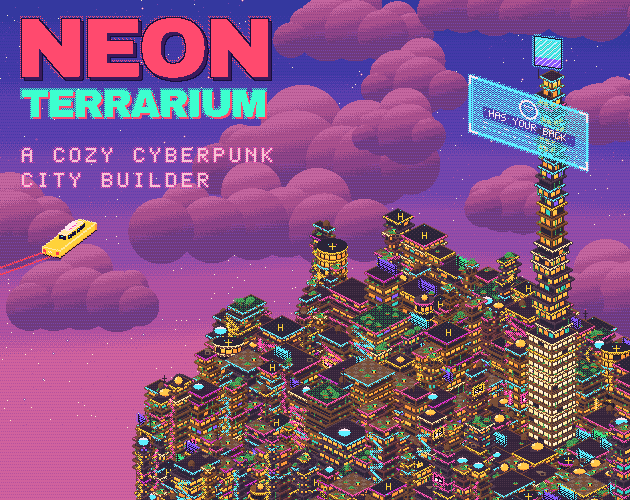
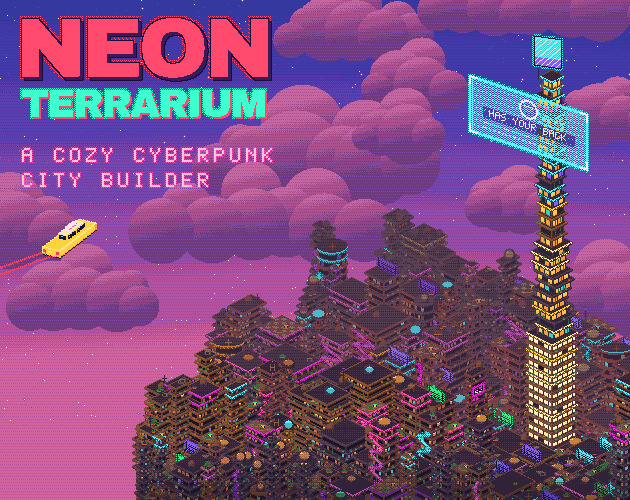
Cover art: dark, moody city lighting
Dim and scatter the window light (about 40% lit, mostly dim amber, rare gold
and cool panes), add distance haze toward dusk violet and a grounding gradient
over the bottom 60 px, trim only the top slabs of about a third of the
buildings in one accent each, calm helipads, gardens, signs and screens.
The hero tower keeps its bright warm floors. PNG and GIFs rebuilt.

Claude-Session: https://claude.ai/code/session_01F4MPX99podf2NwUC3T9owt

Changed region(s): [[0.2111, 0.42, 1.0, 1.0]]

diff --git a/cover-art/cover.px.js b/cover-art/cover.px.js
@@ -19,11 +19,13 @@ const PAL = {
   // neon trim: hot pink, magenta, yellow
   H: "#ff4fb0", M: "#e02fd0", Y: "#ffd23a",
   // plants, terracotta pots; helipad dark, stone tile, grout
-  g: "#4fae5a", e: "#2e7a4a", T: "#c4602e", D: "#2a2438", S: "#8a6a5a", s: "#6a4a44",
+  g: "#3f7046", e: "#2f5a3c", T: "#c4602e", D: "#2a2438", S: "#8a6a5a", s: "#6a4a44",
   // title: coral, purple, mint, ink, pale pink
   C: "#ff4a6e", X: "#3b1a5c", G: "#3dffcf", I: "#170f3a", J: "#f7c6d6",
   // star cream, pale pink-white, red lights
   F: "#fff0d0", W: "#ffe6ee", x: "#ff3b4a",
+  // dim window light: amber, brown-orange, teal, soft purple; dusk violet haze; helipad ochre
+  m: "#c9803a", j: "#a8603a", t: "#4fb8c8", z: "#8a6ad0", Q: "#61298a", Z: "#8a6a3a",
 }
 pal(PAL)
 const KEYS = Object.keys(PAL).join("")
@@ -31,12 +33,16 @@ const IDX = {}
 for (let i = 0; i < KEYS.length; i++) IDX[KEYS[i]] = i
 
 let fb = new Uint8Array(W * H)
+let recordCity = false, curLevel = 0
+const DEPTH = new Uint8Array(W * H), CITY = new Uint8Array(W * H)
 const inb = (x, y) => x >= 0 && x < W && y >= 0 && y < H
 const put = (x, y, k) => {
   if (!inb(x, y)) return
   const i = IDX[k]
   if (i === undefined) throw new Error("no palette key " + k)
-  fb[y * W + x] = i
+  const p = y * W + x
+  fb[p] = i
+  if (recordCity) { CITY[p] = 1; DEPTH[p] = curLevel }
 }
 const get = (x, y) => (inb(x, y) ? KEYS[fb[y * W + x]] : null)
 const rectK = (x, y, w, h, k) => { for (let j = 0; j < h; j++) for (let i = 0; i < w; i++) put(x + i, y + j, k) }
@@ -146,6 +152,45 @@ const cellOK = (a, b) => {
   return cx >= 138 && cx <= 690 && cy >= backLine(cx) && cy <= 575
 }
 
+// ---------------------------------------------------------------- distance haze and a grounding gradient
+// every pixel a building paints remembers how far back it stands (DEPTH, in 1/20ths of a blend toward
+// the dusk violet); after the city is drawn each colour is blended and snapped back onto the palette
+const KEYRGB = {}
+for (const k of KEYS) { const hx = PAL[k]; KEYRGB[k] = [parseInt(hx.slice(1, 3), 16), parseInt(hx.slice(3, 5), 16), parseInt(hx.slice(5, 7), 16)] }
+const SNAP = [...KEYS].filter((k) => !"CXGIJabcdFW".includes(k))
+const nearestKey = (r, g, b) => {
+  let best = "0", bd = 1e9
+  for (const k of SNAP) { const c = KEYRGB[k]; const d = (c[0] - r) ** 2 + (c[1] - g) ** 2 + (c[2] - b) ** 2; if (d < bd) { bd = d; best = k } }
+  return best
+}
+const levelFor = (yBase) => {
+  const f = yBase >= 500 ? 0 : yBase >= 470 ? 0.3 * (500 - yBase) / 30 : 0.3 + 0.2 * clamp((470 - yBase) / 140, 0, 1)
+  return Math.round(f * 20)
+}
+const hazeCache = new Map()
+const hazeKey = (k, level) => {
+  if (!level) return k
+  const ck2 = level * 128 + IDX[k]
+  let r = hazeCache.get(ck2)
+  if (!r) { const f = level / 20, c = KEYRGB[k], v = KEYRGB.Q; r = nearestKey(c[0] * (1 - f) + v[0] * f, c[1] * (1 - f) + v[1] * f, c[2] * (1 - f) + v[2] * f); hazeCache.set(ck2, r) }
+  return r
+}
+const darkCache = new Map()
+const darkKey = (k, amt) => {
+  const ck2 = Math.round(amt * 10) * 128 + IDX[k]
+  let r = darkCache.get(ck2)
+  if (!r) { const a = Math.round(amt * 10) / 10, c = KEYRGB[k], v = KEYRGB.w; r = nearestKey(c[0] * (1 - a) + v[0] * a, c[1] * (1 - a) + v[1] * a, c[2] * (1 - a) + v[2] * a); darkCache.set(ck2, r) }
+  return r
+}
+const GROUND_Y = 440
+const grounded = (x, y, k) => {
+  if (y < GROUND_Y) return k
+  const t = (y - GROUND_Y) / (H - GROUND_Y)
+  return bay(x, y) < Math.min(1, t * 1.15) ? darkKey(k, 0.12 + 0.33 * t) : k
+}
+// what a raw key becomes at (x, y) once the haze and the gradient are on it
+const FK = (x, y, k) => { const i = y * W + x; const kk = hazeKey(k, DEPTH[i]); return CITY[i] ? grounded(x, y, kk) : kk }
+
 // ---------------------------------------------------------------- glow
 const EMIT = new Set("yohnvVNHMYWFxg")
 const glowAround = (pts, k, reach = 2, sink) => {
@@ -207,7 +252,7 @@ function isoBox(a0, b0, w, d, h, z0, fn) {
 const FAMS = [
   { top: "B", L: "K", R: "k" }, { top: "R", L: "r", R: "u" }, { top: "P", L: "p", R: "q" }, { top: "O", L: "L", R: "l" },
 ]
-const TRIMC = ["H", "n", "Y", "H", "M", "n", "H", "Y", "h"]
+const TRIMC = ["H", "H", "H", "H", "M", "M", "M", "n", "n", "n", "Y"]
 
 const PLANT = [".g.g.", "ggegg", ".TTT."]
 const BUSH = ["..ggg..", ".ggegg.", "ggeggeg", ".TTTTT."]
@@ -233,7 +278,7 @@ const pod = (x, y, rx, hgt, wk) => {
   }
   const wy = y - Math.round(hgt * 0.45), wr = Math.max(3, rx - 1), wh = Math.max(3, Math.round(hgt * 0.3))
   for (let j = -wh; j <= wh; j++) for (let i = -wr; i <= wr; i++) {
-    if ((i * i) / (wr * wr) + (j * j) / (wh * wh) <= 1.0) put(x + i, wy + j, wk === "n" ? (j < -wh / 3 ? "W" : "n") : (i < -wr / 3 && j < 0 ? "h" : j > wh / 2 ? "o" : "y"))
+    if ((i * i) / (wr * wr) + (j * j) / (wh * wh) <= 1.0) put(x + i, wy + j, wk === "n" ? (j < -wh / 3 ? "n" : "t") : (i < -wr / 3 && j < -wh / 3 ? "y" : j > wh / 2 ? "j" : "m"))
   }
   hlineK(x - rx, y, rx * 2 + 1, "q")
 }
@@ -270,15 +315,22 @@ const glyph3 = (seed) => { const rows = []; for (let j = 0; j < 3; j++) { let r 
 // ---------------------------------------------------------------- a stack of cantilevered floor plates
 function paneKey(o, side, col, f, pr, pc, lit) {
   const id = o.id
-  const q = ih(id * 131 + col, f * 7 + (side === "L" ? 1 : 2), 11)
-  if (!lit) return q < 0.08 ? "o" : "D"
-  if (q > 0.93) return "D"
-  if (o.glass === "white") return pr < pc - 1 ? (q < 0.25 ? "h" : "F") : "h"
+  if (o.bright) {
+    const q = ih(id * 131 + col, f * 7 + (side === "L" ? 1 : 2), 11)
+    if (!lit) return q < 0.08 ? "o" : "D"
+    if (q > 0.93) return "D"
+    if (o.glass === "white") return pr < pc - 1 ? (q < 0.25 ? "h" : "F") : "h"
+    const t = ih(id + col * 3, f, 5)
+    if (t < 0.05) return "v"
+    if (t < 0.08) return "V"
+    if (t < 0.16) return pr === 0 ? "h" : "y"
+    return pr < pc - 1 ? (t < 0.55 ? "o" : "y") : "o"
+  }
+  if (!lit) return "w"
   const t = ih(id + col * 3, f, 5)
-  if (t < 0.05) return "v"
-  if (t < 0.08) return "V"
-  if (t < 0.16) return pr === 0 ? "h" : "y"
-  return pr < pc - 1 ? (t < 0.55 ? "o" : "y") : "o"
+  if (t < 0.125) return t < 0.06 ? "t" : "z"          // about 1 in 8 is cool
+  if (t < 0.3) return pr === 1 ? "y" : "m"             // gold only as a small scattered spark
+  return side === "L" ? (t < 0.65 ? "m" : "j") : "j"
 }
 function stack(o) {
   const { a, b, w, d, n, fh, fam, id } = o
@@ -291,23 +343,24 @@ function stack(o) {
     const grow = o.over && f >= n * 0.45 ? o.over : 0
     const A = a + dx / 16 - grow, B = b - dx / 16 - grow, Wd = w + 2 * grow, Dd = d + 2 * grow
     const ins = 0.22, hb = fh - 2
-    const lit = ih(id, f, 3) < (o.litP ?? 0.55)
+    const fq = ih(id, f, 3), ff = fq < 0.3 ? 0.35 : fq < 0.7 ? 1.0 : 1.6      // some floors dark, some busier
     const mk = (side) => (u, r, wW, h, x, y) => {
       const base = side === "L" ? fam.L : fam.R
       if (r === 0) return side === "L" ? fam.R : "w"
       if (r === h - 1 || u < 1 || u > wW - 2) return base
       const pos = (u - 1) % (o.pw + 1)
-      if (pos === o.pw) return "D"
+      if (pos === o.pw) return o.bright ? "D" : "w"
       const col = Math.floor((u - 1) / (o.pw + 1)), pr = r - 1, pc = h - 2
+      const lit = o.bright ? fq < (o.litP ?? 0.8) : (col % 4 !== 3 && ih(id * 131 + col, f * 7 + (side === "L" ? 1 : 2), 17) < 0.4 * ff)
       const k = paneKey(o, side, col, f, pr, pc, lit)
       const wid = (id * 2 + (side === "L" ? 0 : 1)) * 65536 + col * 64 + (f & 63)
       let rec = REC.win.get(wid)
-      if (!rec) { rec = { pts: [], lit: "yohnvVNFh".includes(k) }; REC.win.set(wid, rec) }
+      if (!rec) { rec = { pts: [], lit: "yohnvVNFhmjtz".includes(k) }; REC.win.set(wid, rec) }
       rec.pts.push([x, y, k])
       return k
     }
     isoBox(A + ins, B + ins, Wd - 2 * ins, Dd - 2 * ins, hb, z, { L: mk("L"), R: mk("R") })
-    const trimOn = last ? true : ih(id, f, 9) < (o.trimP ?? 0.4)
+    const trimOn = o.trimAll ? (last ? true : ih(id, f, 9) < (o.trimP ?? 0.4)) : (o.trimB && f >= n - 2)
     const trimC = (f % 4 === 2 ? o.trims[1] : o.trims[0])
     const rec = { pts: [], glow: [] }
     const roofFn = last && o.roofFn
@@ -354,8 +407,8 @@ function cylinder(o) {
   const pk = (x, rr) => Math.floor((Math.asin(clamp((x - cx) / rr, -1, 1)) + Math.PI / 2) / (Math.PI / ncol))
   for (let f = 0; f < n; f++) {
     const last = f === n - 1
-    const lit = ih(id, f, 3) < 0.55, hb = fh - 2, rb = 0.88
-    const trimC = o.trims[f % 3 === 2 ? 1 : 0]
+    const fq = ih(id, f, 3), ff = fq < 0.3 ? 0.35 : fq < 0.7 ? 1.0 : 1.6, hb = fh - 2, rb = 0.88
+    const trimC = o.trims[0], trimOn = o.trimB && f >= n - 2
     for (let x = Math.ceil(cx - rx * rb); x <= Math.floor(cx + rx * rb); x++) {
       const t = (x + 0.5 - cx) / (rx * rb)
       if (Math.abs(t) >= 1) continue
@@ -371,8 +424,8 @@ function cylinder(o) {
         else if (r < hb - 1) {
           if (mull) k = "w"
           else {
-            const q = ih(id * 131 + col, f * 7, 11)
-            k = lit && q < 0.92 ? (t > 0.4 ? "o" : r < hb - 2 ? "y" : "o") : "D"
+            const q = ih(id * 131 + col, f * 7, 17), tt = ih(id + col * 3, f, 5)
+            k = col % 4 !== 3 && q < 0.4 * ff ? (tt < 0.125 ? "t" : tt < 0.3 && r === 2 ? "y" : tt > 0.65 || t > 0.4 ? "j" : "m") : "w"
           }
         }
         put(x, y, k)
@@ -388,8 +441,8 @@ function cylinder(o) {
       put(x, yw - 2, t < 0.3 ? fam.top : fam.L); put(x, yw - 1, t < 0.1 ? fam.L : fam.R)
       for (let y = Math.round(yTopC - dy); y <= Math.round(yTopC + dy) - 1; y++) {
         const low = y === Math.round(yTopC + dy) - 1
-        const k = low ? trimC : fam.top
-        if (low) rec.pts.push([x, y, trimC, fam.top])
+        const k = low && trimOn ? trimC : fam.top
+        if (low && trimOn) rec.pts.push([x, y, trimC, fam.top])
         put(x, y, last && o.roofK ? (low ? trimC : o.roofK) : k)
       }
     }
@@ -449,22 +502,25 @@ const drawBuilding = (bd) => {
   const fam = FAMS[Math.floor(ih(id, 1, 3) * 4)]
   const fh = ih(id, 2, 3) < 0.5 ? 8 : 7
   const n = Math.max(2, Math.round(H0 / fh))
-  const trims = [TRIMC[Math.floor(ih(id, 5, 3) * TRIMC.length)], TRIMC[Math.floor(ih(id, 6, 3) * TRIMC.length)]]
+  const accent = TRIMC[Math.floor(ih(id, 5, 3) * TRIMC.length)]
+  const trims = [accent, accent]
+  const trimB = ih(id, 52, 3) < 0.35
+  curLevel = levelFor(PYs(a0 + w, b0 + d))
   const roofType = ih(id, 7, 3)
   const big = w >= 2 && d >= 2
   const isCyl = big && ih(id, 8, 3) < 0.13
-  const pw = ih(id, 9, 3) < 0.5 ? 4 : 6
+  const pw = ih(id, 9, 3) < 0.5 ? 2 : 3
   if (isCyl) {
     const R = Math.min(w, d) * 0.5 * 0.92
     const rx = 11.3 * R * (ih(id, 10, 3) < 0.35 ? 1.5 : 1), ry = 5.66 * R
     const cx = PXs(a0 + w / 2, b0 + d / 2), cy0 = PYs(a0 + w / 2, b0 + d / 2)
-    const top = cylinder({ cx, cy0, rx, ry, n, fh, fam, id, trims, roofK: roofType < 0.5 ? "D" : null })
+    const top = cylinder({ cx, cy0, rx, ry, n, fh, fam, id, trims, trimB, roofK: roofType < 0.5 ? "D" : null })
     const [tx, ty] = top.top
-    if (roofType < 0.5) { hlineK(tx - 3, ty, 7, "Y"); vlineK(tx, ty - 3, 7, "Y"); put(tx - 4, ty - 2, "n"); put(tx + 4, ty - 2, "H") }
+    if (roofType < 0.5) { hlineK(tx - 3, ty, 7, "Z"); vlineK(tx, ty - 3, 7, "Z") }
     else pod(tx, ty + 2, Math.max(4, Math.round(rx * 0.4)), 10, "y")
   } else {
     // the roof: helipad, paved terrace, garden, pod or plain clutter
-    const kind = big && roofType < 0.26 ? "heli" : roofType < 0.4 ? "terrace" : roofType < 0.54 ? "garden" : roofType < 0.7 ? "pod" : "plain"
+    const kind = big && roofType < 0.1 ? "heli" : roofType < 0.2 ? "terrace" : roofType < 0.27 ? "garden" : roofType < 0.45 ? "pod" : "plain"
     const roofFn = (x, y, i) => {
       if (i.low || i.up) return null
       if (kind === "heli") return i.side ? "q" : (bay(x, y) < 0.1 ? "p" : "D")
@@ -476,13 +532,13 @@ const drawBuilding = (bd) => {
       a: a0, b: b0, w, d, n, fh, fam, id, trims, pw,
       twist: ih(id, 11, 3) < 0.4 ? 2 + Math.floor(ih(id, 12, 3) * 2) : 0,
       over: ih(id, 13, 3) < 0.3 ? 0.22 : 0,
-      litP: 0.3 + 0.45 * ih(id, 50, 3), trimP: 0.16 + 0.3 * ih(id, 51, 3), plantP: 0.5, roofFn, roofPlants: kind === "garden",
+      trimB, plantP: 0.5, roofFn, roofPlants: kind === "garden",
     })
     const rb = st.roofBox
     const [cx, cy] = rb.pt(a0 + w / 2, b0 + d / 2)
-    if (H0 >= 150 && ih(id, 90, 3) < 0.55) screenPanel(cx - 13, cy - 1, 26, 15, ["M", "n", "V", "N"][Math.floor(ih(id, 91, 3) * 4)])
+    if (H0 >= 150 && ih(id, 90, 3) < 0.3) screenPanel(cx - 13, cy - 1, 26, 15, ["M", "n", "V", "N"][Math.floor(ih(id, 91, 3) * 4)])
     if (kind === "heli") {
-      for (let j = 0; j < 7; j++) for (let i = 0; i < 5; i++) if (HGLYPH[j][i] !== ".") put(cx - 2 + i, cy - 3 + j, "Y")
+      for (let j = 0; j < 7; j++) for (let i = 0; i < 5; i++) if (HGLYPH[j][i] !== ".") put(cx - 2 + i, cy - 3 + j, "Z")
       for (const [px, py, k] of [[a0, b0, "n"], [a0 + w, b0, "H"], [a0 + w, b0 + d, "n"], [a0, b0 + d, "H"]]) {
         const [qx, qy] = rb.pt(px, py); const sx = Math.sign(cx - qx), sy = Math.sign(cy - qy)
         put(qx + 2 * sx, qy + 2 * sy, k); put(qx + 3 * sx, qy + 2 * sy, k)
@@ -510,7 +566,7 @@ const drawBuilding = (bd) => {
         else if (t < 0.4) antenna(px, py, 8 + Math.floor(ih(id, 100 + i, 6) * 9), id * 4 + i)
         else if (t < 0.52) spr(px, py, AC)
         else if (t < 0.6) spr(px, py, DISH)
-        else if (t < 0.78) screenPanel(px - 7, py, 14 + 2 * Math.floor(ih(id, 110 + i, 6) * 3), 8, ["n", "V", "N"][Math.floor(ih(id, 111 + i, 6) * 3)])
+        else if (t < 0.69) screenPanel(px - 7, py, 14 + 2 * Math.floor(ih(id, 110 + i, 6) * 3), 8, ["n", "V", "N"][Math.floor(ih(id, 111 + i, 6) * 3)])
         else if (t < 0.92) spr(px, py, BUSH)
         else spr(px, py, PLANT)
       }
@@ -519,12 +575,12 @@ const drawBuilding = (bd) => {
   // neon on the walls: boxy two-line shop signs, strips and icons, a zigzag stair on some towers
   const m = { a: a0, b: b0, w, d, z: 0, h: n * fh }
   const wk = [fam.L, fam.R, "w"]
-  const nsign = H0 > 30 && ih(id, 24, 3) < 0.8 ? 1 + (ih(id, 25, 3) < 0.4 ? 1 : 0) : 0
+  const nsign = H0 > 30 && ih(id, 24, 3) < 0.4 ? 1 + (ih(id, 25, 3) < 0.2 ? 1 : 0) : 0
   for (let s = 0; s < nsign; s++) {
     const side = ih(id, 26 + s, 3) < 0.65 ? "L" : "R"
     const wW = Math.round(8 * (side === "L" ? w : d))
     if (wW < 10) continue
-    const col = SIGNC[Math.floor(ih(id, 27 + s, 3) * SIGNC.length)]
+    const col = accent
     const kind = ih(id, 28 + s, 3)
     const cells = []
     const at = (u, r, k) => { const [x, y] = wallXY(side, m, u, r); cells.push([x, y, k]) }
@@ -545,7 +601,7 @@ const drawBuilding = (bd) => {
       const len = Math.min(m.h - 12, 8 + Math.floor(ih(id, 33 + s, 3) * 10))
       const u0 = 1 + 2 * Math.floor(ih(id, 34 + s, 3) * Math.floor(Math.max(1, wW - 6) / 2))
       const r0 = rr(6, m.h - len - 6, 35 + s)
-      for (let r = 0; r < len; r++) { at(u0, r0 + r, col); at(u0 + 1, r0 + r, r % 4 === 0 ? "W" : col) }
+      for (let r = 0; r < len; r++) { at(u0, r0 + r, col); at(u0 + 1, r0 + r, r % 3 === 0 ? "W" : col) }
     } else {
       const ic = ICON[["ring", "arrow", "bolt"][Math.floor(ih(id, 36 + s, 3) * 3)]]
       const u0 = 3 + 2 * Math.floor(ih(id, 37 + s, 3) * Math.floor(Math.max(1, wW - 12) / 2))
@@ -554,9 +610,9 @@ const drawBuilding = (bd) => {
     }
     addSign(cells, col, wk)
   }
-  if (m.h > 80 && ih(id, 45, 3) < 0.4) {
+  if (m.h > 80 && ih(id, 45, 3) < 0.2) {
     // neon zigzag exterior stair up the lit side
-    const col = ["H", "n", "Y"][Math.floor(ih(id, 46, 3) * 3)]
+    const col = accent
     const wL = Math.round(8 * w)
     const cells = []
     const flights = Math.floor((m.h - 12) / fh)
@@ -578,18 +634,19 @@ const drawBuilding = (bd) => {
 let TOWER_MASK = null, TOWER_POST = null
 const drawTower = () => {
   const pre = fb.slice()
+  curLevel = 0
   const F = { brick: FAMS[1], brown: FAMS[0], plum: FAMS[2], orange: FAMS[3] }
   // a stepped, wide base with plants
-  stack({ a: 90, b: 21, w: 4, d: 4, n: 3, fh: 8, fam: F.brick, id: 9901, trims: ["H", "n"], pw: 6, litP: 0.8, plantP: 0.7 })
+  stack({ a: 90, b: 21, w: 4, d: 4, n: 3, fh: 8, fam: F.brick, id: 9901, bright: true, trimAll: true, trims: ["H", "n"], pw: 6, litP: 0.8, plantP: 0.7 })
   // the white-lit body, windows in pale rows
-  stack({ a: 90.3, b: 21.3, w: 3.4, d: 3.4, z0: 24, n: 13, fh: 8, fam: F.brown, id: 9902, trims: ["h", "Y"], pw: 4, litP: 0.95, plantP: 0.55, glass: "white" })
+  stack({ a: 90.3, b: 21.3, w: 3.4, d: 3.4, z0: 24, n: 13, fh: 8, fam: F.brown, id: 9902, bright: true, trimAll: true, trims: ["h", "Y"], pw: 4, litP: 0.95, plantP: 0.55, glass: "white" })
   // a twisting stack of thick plates, white and yellow floor lines
-  stack({ a: 90.75, b: 21.75, w: 2.5, d: 2.5, z0: 128, n: 10, fh: 9, fam: F.plum, id: 9903, trims: ["h", "Y"], pw: 4, litP: 0.55, plantP: 0.3, twist: 3 })
+  stack({ a: 90.75, b: 21.75, w: 2.5, d: 2.5, z0: 128, n: 10, fh: 9, fam: F.plum, id: 9903, bright: true, trimAll: true, trims: ["h", "Y"], pw: 4, litP: 0.55, plantP: 0.3, twist: 3 })
   // a warm brown block with a lit crown line
-  stack({ a: 91, b: 22, w: 2, d: 2, z0: 218, n: 4, fh: 10, fam: F.orange, id: 9904, trims: ["Y", "H"], pw: 4, litP: 0.85, plantP: 0.2 })
+  stack({ a: 91, b: 22, w: 2, d: 2, z0: 218, n: 4, fh: 10, fam: F.orange, id: 9904, bright: true, trimAll: true, trims: ["Y", "H"], pw: 4, litP: 0.85, plantP: 0.2 })
   // a dark stack with cyan and pink trims
-  stack({ a: 91, b: 22, w: 2, d: 2, z0: 258, n: 12, fh: 9, fam: F.plum, id: 9905, trims: ["n", "H"], pw: 4, litP: 0.5, trimP: 0.7, plantP: 0.15, twist: 2 })
-  const st = stack({ a: 91.2, b: 22.2, w: 1.6, d: 1.6, z0: 366, n: 2, fh: 9, fam: F.brown, id: 9906, trims: ["n", "Y"], pw: 4, litP: 0.95 })
+  stack({ a: 91, b: 22, w: 2, d: 2, z0: 258, n: 12, fh: 9, fam: F.plum, id: 9905, bright: true, trimAll: true, trims: ["n", "H"], pw: 4, litP: 0.5, trimP: 0.7, plantP: 0.15, twist: 2 })
+  const st = stack({ a: 91.2, b: 22.2, w: 1.6, d: 1.6, z0: 366, n: 2, fh: 9, fam: F.brown, id: 9906, bright: true, trimAll: true, trims: ["n", "Y"], pw: 4, litP: 0.95 })
   const [cx, cy] = st.roofBox.pt(92, 23)
   // crown: an antenna with a red tip, and a small screen on a frame
   vlineK(cx + 6, cy - 16, 16, "q")
@@ -616,7 +673,24 @@ for (const bd of blds) bd.h = heightOf(bd)
 const order = blds.map((b) => ({ t: "b", b, k: b.a0 + b.w + b.b0 + b.d, k2: b.a0 + b.w }))
 order.push({ t: "T", k: 119, k2: 94 })
 order.sort((p, q) => p.k - q.k || p.k2 - q.k2)
-for (const e of order) { if (e.t === "T") drawTower(); else drawBuilding(e.b) }
+recordCity = true
+for (const e of order) { if (e.t === "T") drawTower(); else drawBuilding(e.b); curLevel = 0 }
+
+const stillAt = (x, y, k) => get(x, y) === k
+// keep only the records whose pixels survived being painted over by nearer buildings
+REC.stars = REC.stars.filter(([x, y]) => stillAt(x, y, "F"))
+for (const s of REC.signs) { s.pts = s.pts.filter(([x, y, k]) => stillAt(x, y, k)); s.glow = s.glow.filter(([x, y, k]) => stillAt(x, y, k)) }
+REC.signs = REC.signs.filter((s) => s.pts.length >= 4)
+for (const s of REC.trims) { s.pts = s.pts.filter(([x, y, k]) => stillAt(x, y, k)); s.glow = s.glow.filter(([x, y, k]) => stillAt(x, y, k)) }
+REC.trims = REC.trims.filter((s) => s.pts.length >= 8)
+for (const t of REC.tips) t.pts = t.pts.filter(([x, y, k]) => stillAt(x, y, k))
+REC.tips = REC.tips.filter((t) => t.pts.length >= 1)
+const WINS = [...REC.win.values()].map((r) => ({ lit: r.lit, pts: r.pts.filter(([x, y, k]) => stillAt(x, y, k)) })).filter((r) => r.pts.length >= 3)
+
+
+// the haze and the grounding gradient, now that the records hold the raw colours
+recordCity = false
+for (let y = 0; y < H; y++) for (let x = 0; x < W; x++) { const i = y * W + x; if (CITY[i]) fb[i] = IDX[FK(x, y, KEYS[fb[i]])] }
 
 // ================================================================ title: the letters are Archivo Black outlines
 // rasterized once from the supplied SVG (8x, box filtered, thresholded at 50%) and kept as row runs
@@ -736,28 +810,18 @@ for (let y = 14; y < 90; y++) for (let x = 14; x < 280; x++) {
 // ---------------------------------------------------------------- what is still is now done
 const BASE = fb.slice()
 for (let i = 0; i < W * H; i++) if (TOWER_MASK[i] && BASE[i] !== TOWER_POST[i]) TOWER_MASK[i] = 0
-const stillAt = (x, y, k) => get(x, y) === k
-// keep only the records whose pixels survived being painted over by nearer buildings
-REC.stars = REC.stars.filter(([x, y]) => stillAt(x, y, "F"))
-for (const s of REC.signs) { s.pts = s.pts.filter(([x, y, k]) => stillAt(x, y, k)); s.glow = s.glow.filter(([x, y, k]) => stillAt(x, y, k)) }
-REC.signs = REC.signs.filter((s) => s.pts.length >= 4)
-for (const s of REC.trims) { s.pts = s.pts.filter(([x, y, k]) => stillAt(x, y, k)); s.glow = s.glow.filter(([x, y, k]) => stillAt(x, y, k)) }
-REC.trims = REC.trims.filter((s) => s.pts.length >= 8)
-for (const t of REC.tips) t.pts = t.pts.filter(([x, y, k]) => stillAt(x, y, k))
-REC.tips = REC.tips.filter((t) => t.pts.length >= 1)
-const WINS = [...REC.win.values()].map((r) => ({ lit: r.lit, pts: r.pts.filter(([x, y, k]) => stillAt(x, y, k)) })).filter((r) => r.pts.length >= 3)
-
 // pick what moves, by position in the lists (fixed), so every run gives the same loop
 const pickEvery = (list, n) => { const step = Math.max(1, Math.floor(list.length / n)); const out = []; for (let i = Math.floor(step / 2); i < list.length && out.length < n; i += step) out.push(list[i]); return out }
-const MOVING_WINS = pickEvery(WINS.filter((w2) => w2.pts[0][1] > 140), 22).map((w2, i) => ({ w: w2, a: (i * 7 + 3) % FRAMES, d: 6 + ((i * 5) % 10) }))
-const BLINKERS = pickEvery(REC.signs.filter((s) => s.pts[0][1] > 120), 8).map((s, i) => ({ s, a: 3 + i * 6, d: 1 + (i % 2) }))
-const BLINKTRIMS = pickEvery(REC.trims.filter((s) => s.pts[0][1] > 150), 6).map((s, i) => ({ s, a: 9 + i * 7, d: 1 + ((i + 1) % 2) }))
+const lvl = (p) => DEPTH[p[1] * W + p[0]]
+const MOVING_WINS = pickEvery(WINS.filter((w2) => w2.pts[0][1] > 230 && lvl(w2.pts[0]) <= 6), 22).map((w2, i) => ({ w: w2, a: (i * 7 + 3) % FRAMES, d: 6 + ((i * 5) % 10) }))
+const BLINKERS = pickEvery(REC.signs.filter((s) => s.pts[0][1] > 230 && lvl(s.pts[0]) <= 6), 8).map((s, i) => ({ s, a: 3 + i * 6, d: 1 + (i % 2) }))
+const BLINKTRIMS = pickEvery(REC.trims.filter((s) => s.pts[0][1] > 230 && lvl(s.pts[0]) <= 6), 6).map((s, i) => ({ s, a: 9 + i * 7, d: 1 + ((i + 1) % 2) }))
 const LOWSIGNS = REC.signs.filter((s) => s.pts[0][1] > 220)
 const STUTTER = LOWSIGNS[Math.floor(LOWSIGNS.length / 5)]
 const TWINKLERS = pickEvery(REC.stars, 14)
 
 const inLoop = (f, a, d) => ((f - a + FRAMES * 4) % FRAMES) < d
-const setPts = (pts, off) => { for (const p of pts) put(p[0], p[1], off ? p[3] : p[2]) }
+const setPts = (pts, off) => { for (const p of pts) put(p[0], p[1], FK(p[0], p[1], off ? p[3] : p[2])) }
 
 // ================================================================ the moving parts
 const HOLO = { x: 469, y: 75, w: 119, h: 57 }
@@ -911,7 +975,7 @@ const renderFrame = (f) => {
   // windows: each of ~20 flips off (or on) at a fixed frame and flips back, like someone moving about
   for (const { w, a, d } of MOVING_WINS) {
     if (!inLoop(f, a, d)) continue
-    w.pts.forEach(([x, y, k], i) => put(x, y, w.lit ? "w" : i === 0 ? "h" : "y"))
+    w.pts.forEach(([x, y, k], i) => put(x, y, FK(x, y, w.lit ? "w" : i === 0 ? "y" : "m")))
   }
   BLINKERS.forEach(({ s, a, d }) => { if (inLoop(f, a, d)) { setPts(s.pts, true); setPts(s.glow, true) } })
   BLINKTRIMS.forEach(({ s, a, d }) => { if (inLoop(f, a, d)) { setPts(s.pts, true); setPts(s.glow, true) } })
